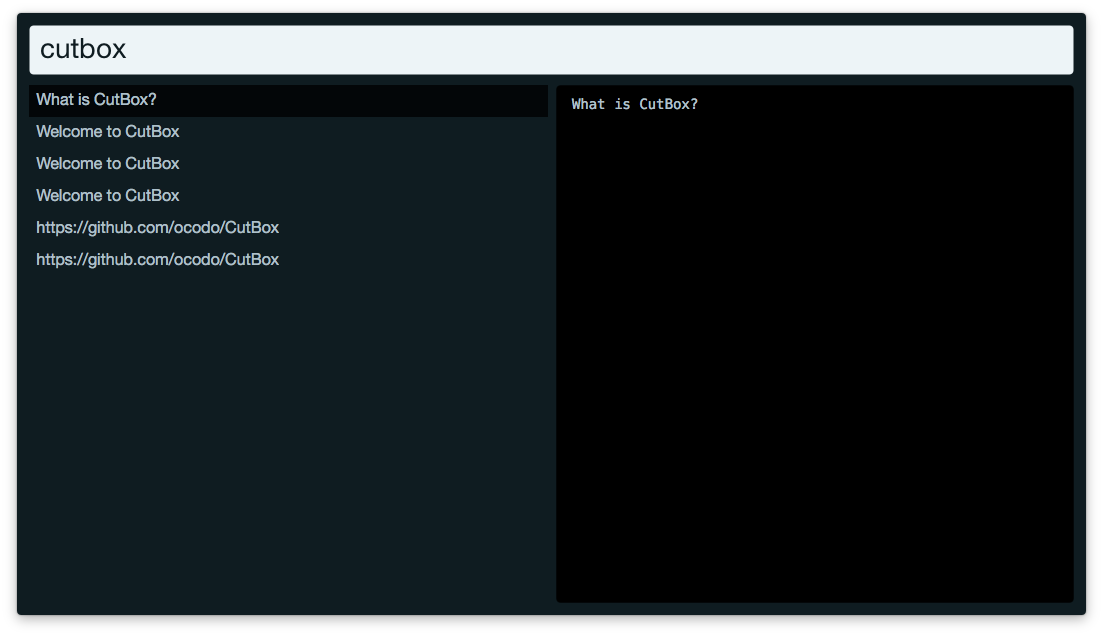
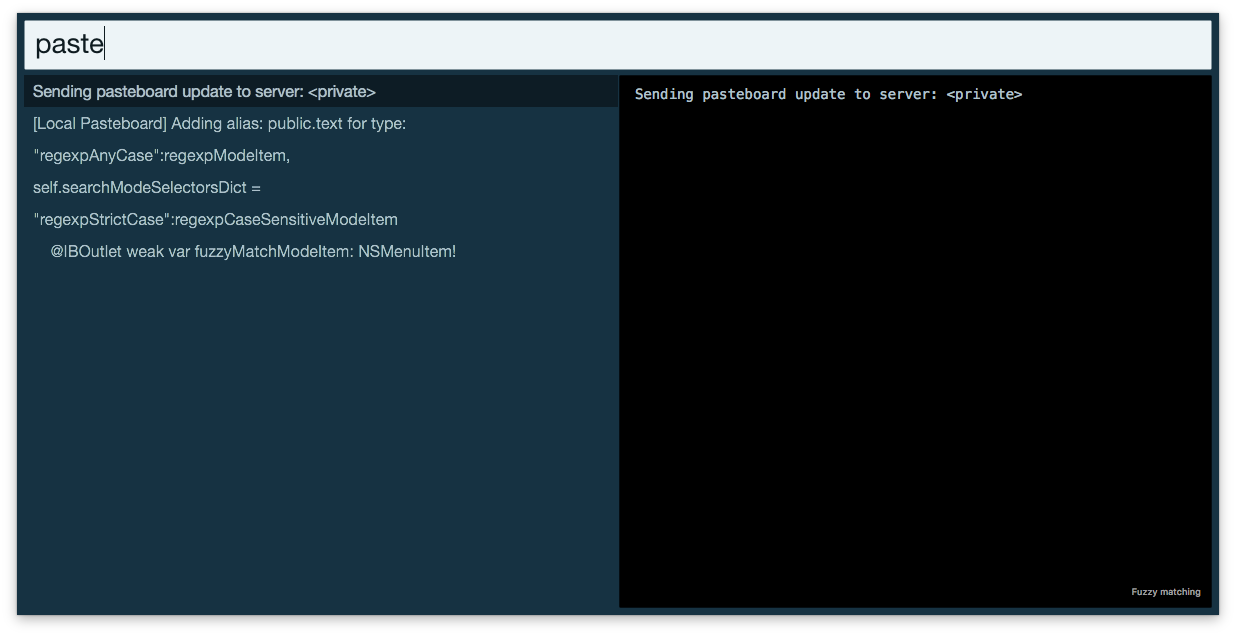
Update README and preview images

diff --git a/CutBox/CutBox/Source/App/CutBoxController.swift b/CutBox/CutBox/Source/App/CutBoxController.swift
@@ -78,8 +78,6 @@ class CutBoxController: NSObject {
                 }
             })
             .disposed(by: disposeBag)
-
-
     }
 
     @IBAction func searchModeSelect(_ sender: NSMenuItem) {

diff --git a/README.md b/README.md
@@ -1,7 +1,6 @@
 [![CutBox](https://img.shields.io/github/release/ocodo/CutBox.svg)](https://github.com/ocodo/CutBox/releases/download/1.0.13/CutBox.dmg)
 ![Github commits (since latest release)](https://img.shields.io/github/commits-since/ocodo/CutBox/latest.svg)
 [![Latest release](https://img.shields.io/github/downloads/ocodo/CutBox/latest/CutBox.dmg.svg)](https://github.com/ocodo/CutBox/releases/download/1.0.13/CutBox.dmg)
-[![Enhancements pipeline](https://img.shields.io/github/issues/badges/ocodo/CutBox-enhancement.svg)](https://github.com/Ocodo/CutBox/issues)
 
 # CutBox
 
@@ -12,7 +11,7 @@ a nice little pasteboard timemachine
 ## About CutBox
 
 CutBox keeps your pasteboard cut/copy history and lets you paste
-anything back to your current app by fuzzy searching for items.
+anything back to your current app by searching for items.
 
 CutBox is inspired by [JumpCut](https://github.com/snark/jumpcut) & [Flycut](https://github.com/TermiT/Flycut)
 
@@ -30,23 +29,87 @@ As a side note, CutBox will not be on the Mac AppStore.
 
 ## How to use CutBox
 
-[![CutBox on YouTube](https://img.youtube.com/vi/e3vYfOrFD2A/0.jpg)](https://www.youtube.com/watch?v=e3vYfOrFD2A)
+CutBox runs as a status menu icon and provides a global hotkey
+to show and hide it's main window:
 
-CutBox starts a new macos status menu icon and a global hotkey
-combo <kbd>**Cmd**</kbd> + <kbd>**Shift**</kbd> + <kbd>**V**</kbd>
+<kbd>**Cmd**</kbd> + <kbd>**Shift**</kbd> + <kbd>**V**</kbd>
 
-Search the cut/copy history by typing (search uses fuzzy matching)
-Select from the search results using <kbd>**up**</kbd> and <kbd>**down**</kbd>, or select with the mouse.
+![](CutBox/CutBox/GraphicAssets/cutbox-menu-preview.png)
 
-Once you've selected an item, press <kbd>**Enter**</kbd> to paste it to the current app.
+Search the cut/copy history by typing (search uses fuzzy matching or
+regexp use <kbd>**Cmd**</kbd> + <kbd>**S**</kbd> to toggle search
+modes)
 
 ![](CutBox/CutBox/GraphicAssets/cutbox-preview-search.png)
+![](CutBox/CutBox/GraphicAssets/cutbox-preview-search-regexp.png)
+![](CutBox/CutBox/GraphicAssets/cutbox-preview-search-regexp-strict.png)
+
+Choose from the search results using <kbd>**up**</kbd> and
+<kbd>**down**</kbd>, or select with the mouse.
+
+Once you've selected an item, press <kbd>**Enter**</kbd> to paste it
+to the current app.
 
 If you want to exit without pasting, press <kbd>**Esc**</kbd>
 
 (If you click the mouse away from the search popup it'll exit too.)
 
-The status menu also lets you clear the CutBox history.
+## Advanced use...
+
+### Multi item select and paste
+
+![](CutBox/CutBox/GraphicAssets/cutbox-preferences.png)
+
+CutBox also allows you to select multiple pasteboard items and paste
+them all back in one go.
+
+For example, let's say I have a bunch of web links I want to collect.
+
+1. Right click each link and copy address
+1. Repeat (1) until I've copied them all
+1. Switch to the application you want to copy all the links to
+1. Open CutBox switch to regexp mode with [<kbd>**Cmd**</kbd> + <kbd>**S**</kbd>] (you'll see search mode change at the bottom right)
+1. Search CutBox for **`https?:`**
+1. Select all the links you want to paste with [mouse and/or keyboard shortcuts](https://support.apple.com/kb/PH25306)
+1. Press enter to paste all the items.
+
+All your links will be pasted with new-lines in between each one.
+
+### Join items with strings and/or wrap them
+
+Mutli-item paste is configurable so you can choose a string to join
+between the items, and you can also wrap a pair of strings around the
+start and end.
+
+![](CutBox/CutBox/GraphicAssets/cutbox-preferences.png)
+
+For example, if I wanted to collect a list of numbers from various different place to paste into a piece of code, usually I'd need to edit them after copy pasting them one by one.
+
+With CutBox I don't have to do that.  Now I can just do this:
+
+1. Set CutBox search mode to regexp
+1. Set my join and wraping strings up in CutBox preferences
+1. e.g. my target is JavaScript code, I want to use an array of decimal numbers
+    1. Set my join string to `, `
+    1. Set wrapping on
+        1. Set my start string to `let numberArray = [`
+        1. Set my end string to `]`
+    1. close preferences
+1. Copy each item, from wherever they are until I've copied them all
+1. Switch to my code editor
+1. Open CutBox search and enter `^\d+\.\d+$` (i.e. match all floating point numbers)
+1. Select the items with the mouse / keyboard
+1. Press enter to paste all the items.
+1. (Assuming you copied these numbers: 93.13 44.52 52.21 32.14)
+1. You'll have something like...
+
+        let numberArray = [32.14, 52.21, 44.52, 93.13]
+
+Note: at the moment the sort order of the items will be in the reverse order you copied the items.  For example, I copy 1, then 2, then 3, When I paste them back... I get `3 2 1`.
+
+You can use wrapping and joining to do a bunch of things.  I'm interested to hear what you use it for. Tweet me at [@ocodo](https://twitter.com/ocodo)
+
+If you'd like more features in CutBox open a new issue and mark it _enhancements_.
 
 # Development note
 
